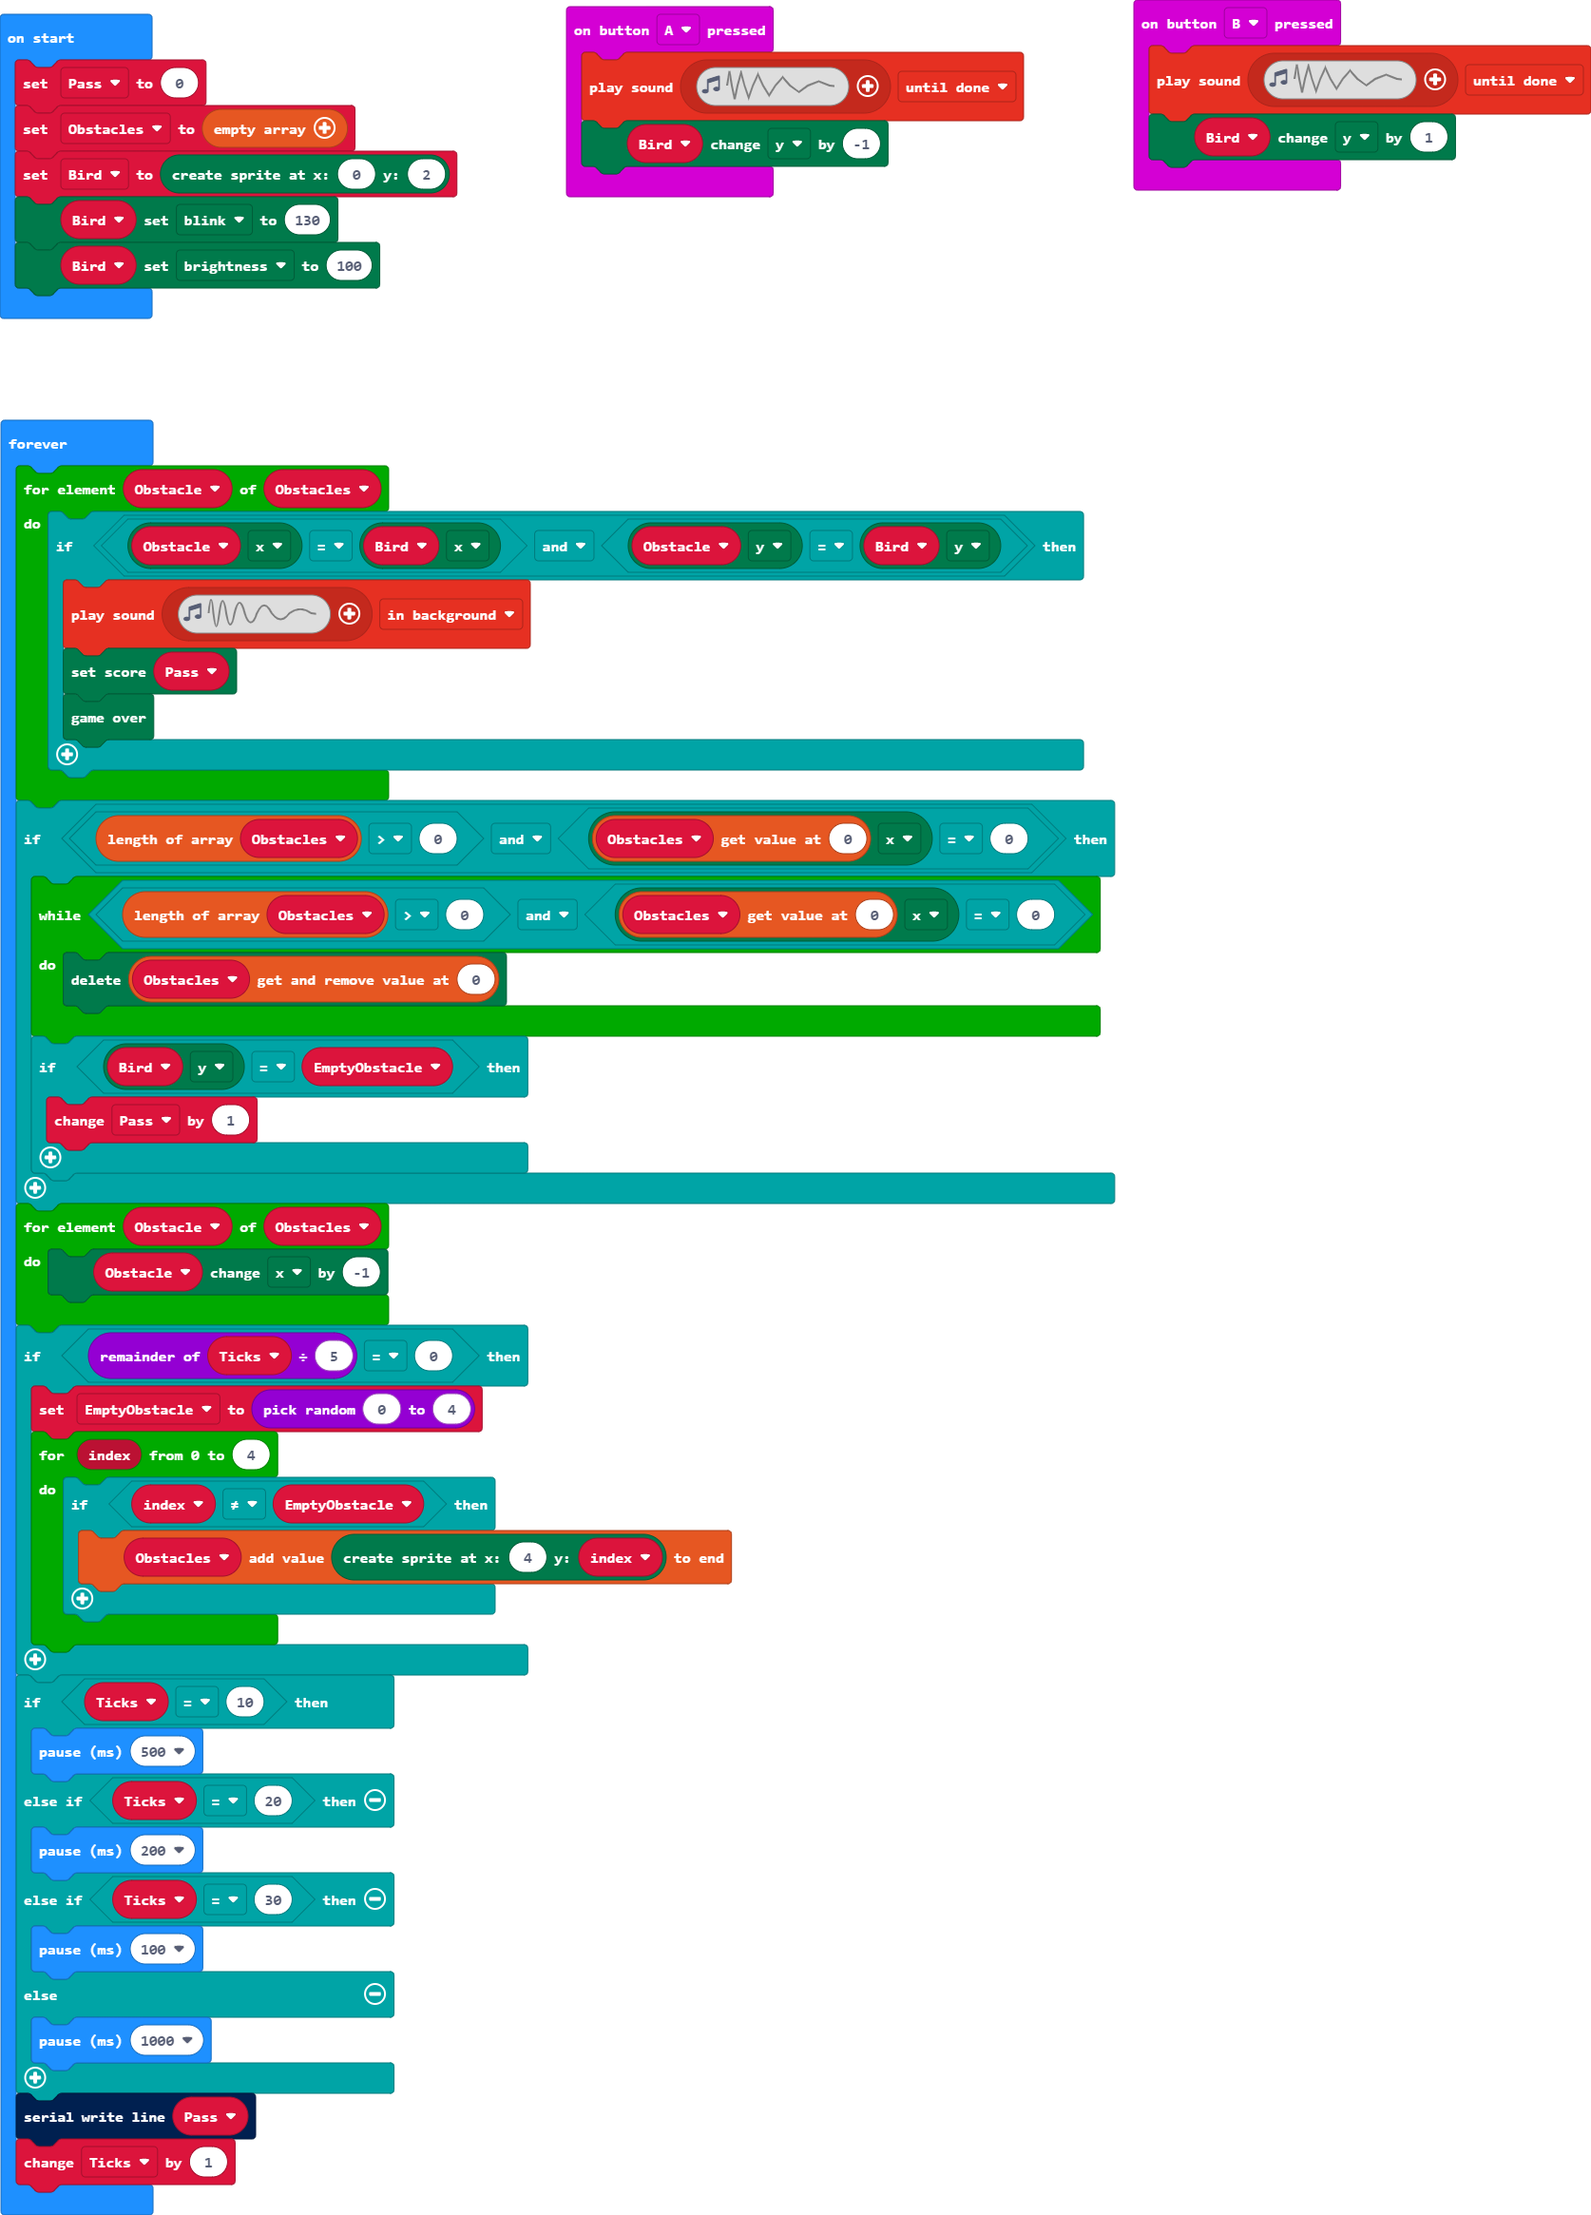
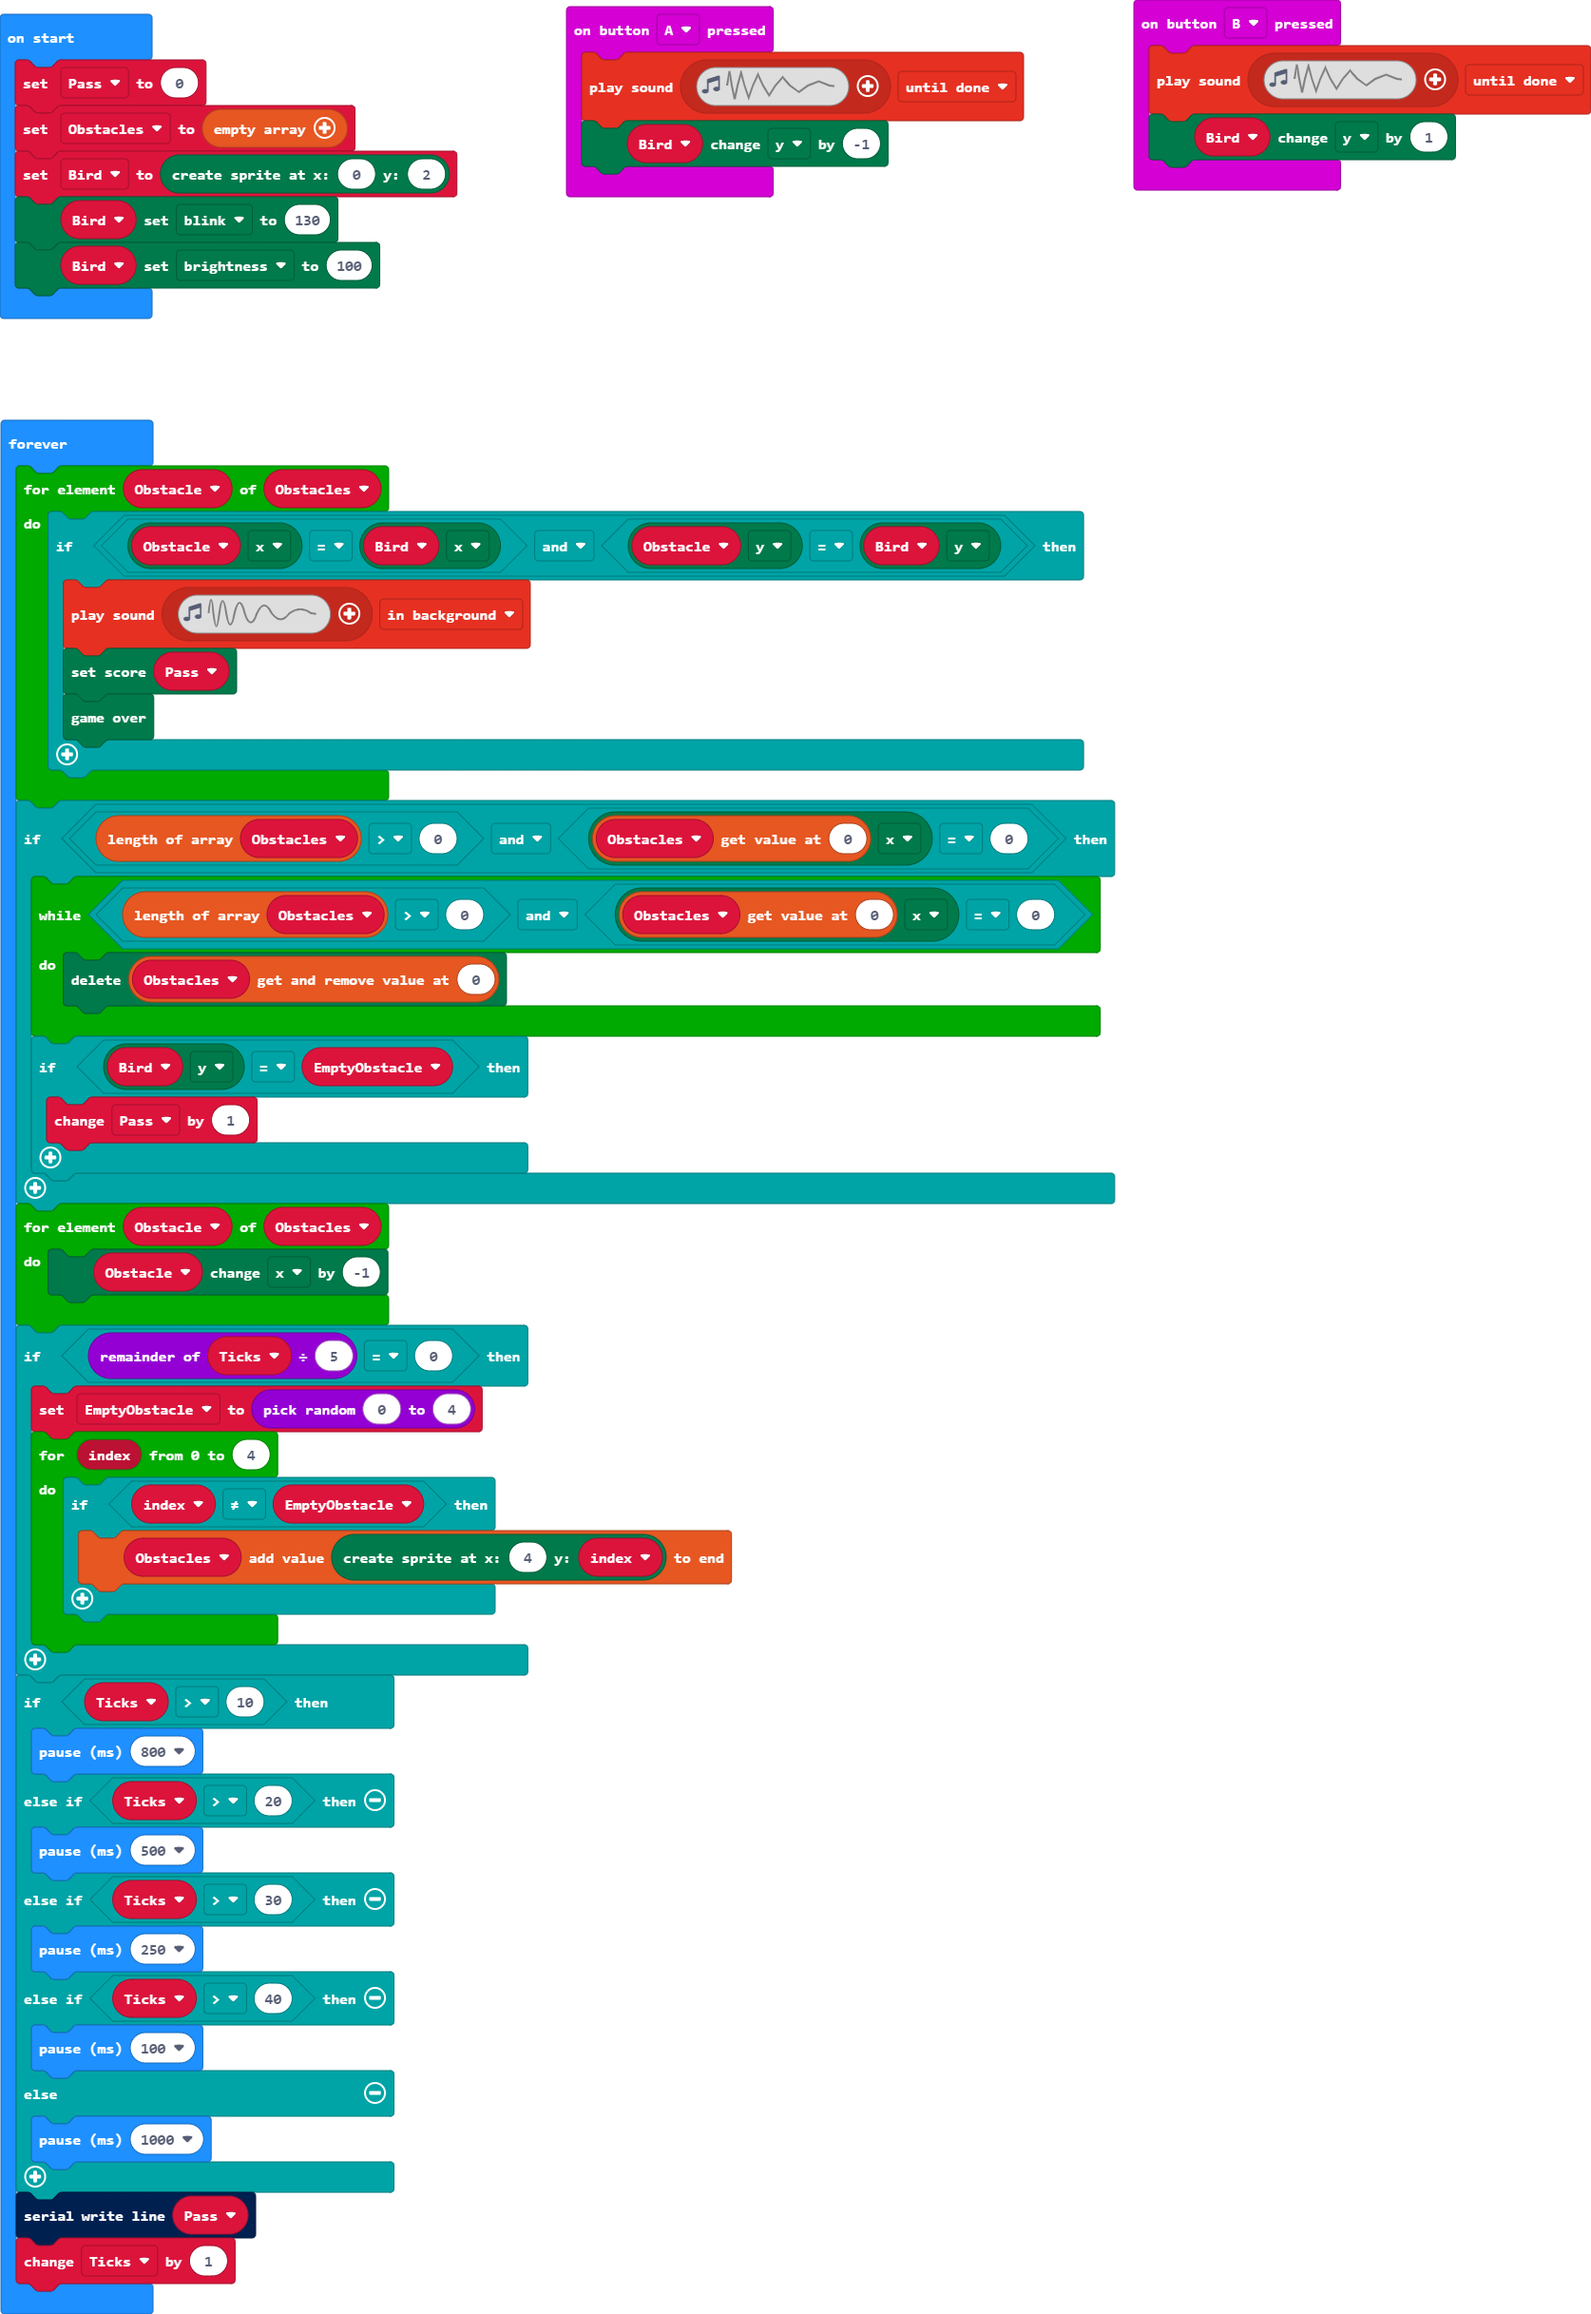
times

Changed region(s): [[0.0, 0.0, 0.7145, 0.9888], [0.7145, 0.0, 1.0, 0.0927], [0.3417, 0.0, 0.6523, 0.0927]]

diff --git a/main.ts b/main.ts
@@ -41,11 +41,13 @@ basic.forever(function () {
             }
         }
     }
-    if (Ticks == 10) {
+    if (Ticks > 10) {
+        basic.pause(800)
+    } else if (Ticks > 20) {
         basic.pause(500)
-    } else if (Ticks == 20) {
-        basic.pause(200)
-    } else if (Ticks == 30) {
+    } else if (Ticks > 30) {
+        basic.pause(250)
+    } else if (Ticks > 40) {
         basic.pause(100)
     } else {
         basic.pause(1000)
